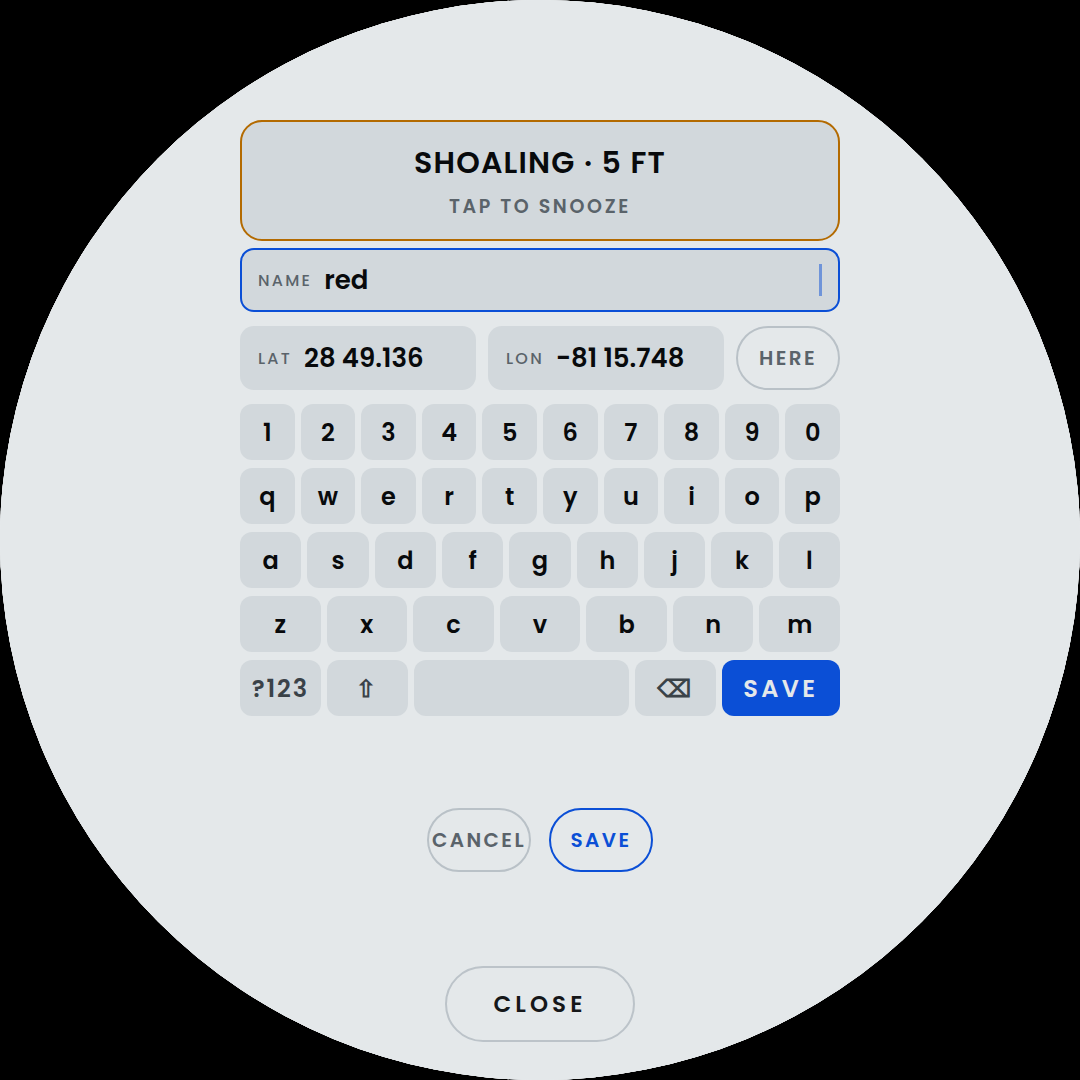
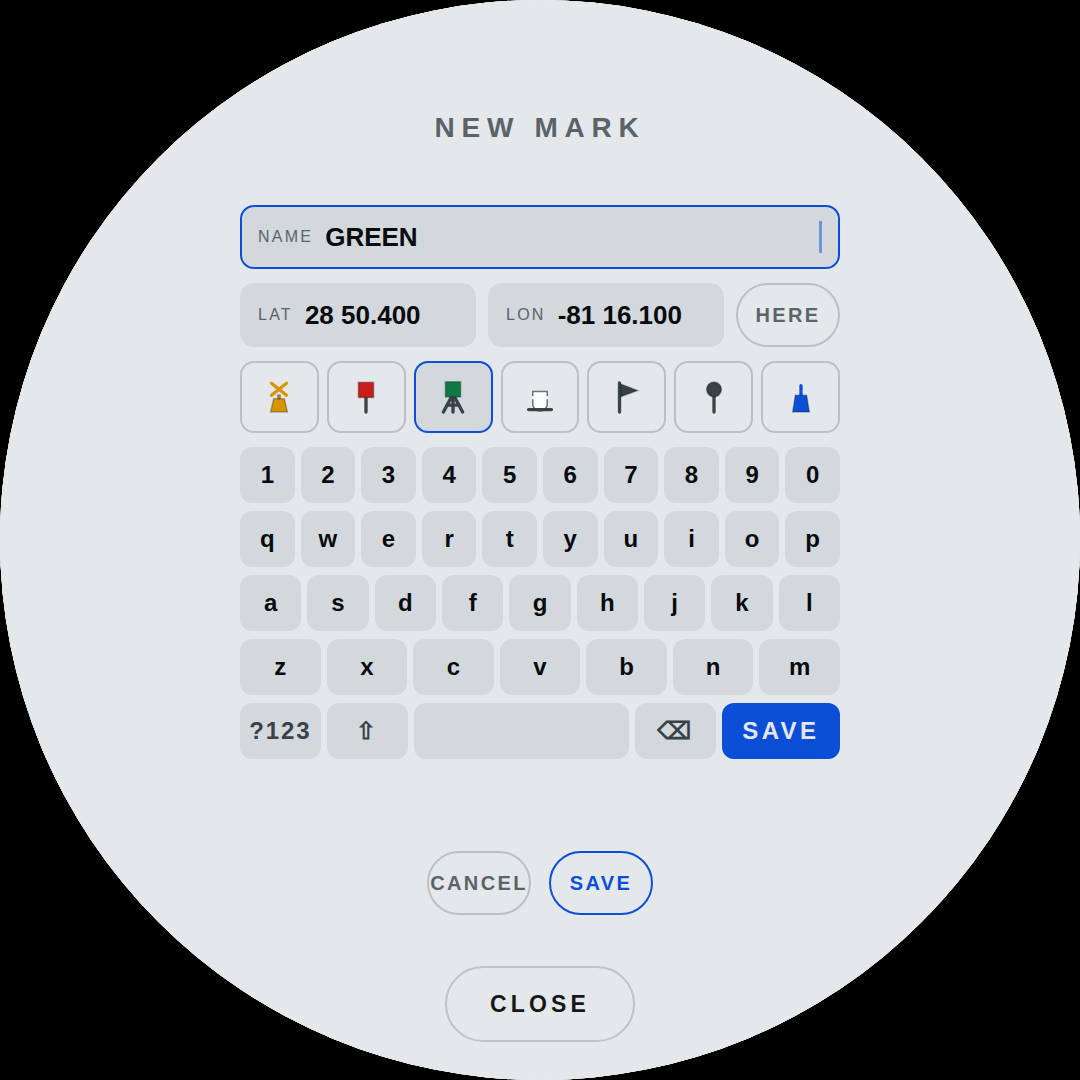
The channel is beaconed, and a mark of yours can say what it is
The channel here is not buoyed. Each mark is a piling out of the water
with a square board on top, and the green ones are three wooden sticks
leaned together in a teepee with the board across them - two pilings
apart at a glance from a boat, which is the whole reason for drawing
them at all. The red nun was a drawing of something that is not there.
The manatee cans are rounded and sitting on a waterline now, so they are
plainly the floating thing among the standing ones.

And the green tripod belongs to a mark that is not in the club table -
it lives in browser storage on the Pi, and in the club's own course
selection. So the form that makes a mark of your own carries all seven
buoys under the position: tap one, and it is kept with the mark and the
sheet draws it. Correcting one of the club's marks can change its buoy
too, on the same terms as its name - stored only if you changed it, so
the correction stays a correction and the table still says what the
table says.

One thing this does NOT fix: a course posted by the club naming a mark
that only exists on this Pi still cannot be loaded, because the site's
id and the id this boat gave your mark are different strings. It is
counted in MISSING, as it was.

Claude-Session: https://claude.ai/code/session_01BmvizJiQLmvpEFfAxzaKX2

diff --git a/confluence_helm.html b/confluence_helm.html
@@ -63,7 +63,7 @@ body{                                   /* DAY - built to beat sun   */
   --club:#0E7A7A;
   /* The marks as they are on the water. The yellow is knocked down from
      a buoy's own yellow, which on a light panel in sun is a smear. */
-  --buoy-y:#D89400; --buoy-r:#C81E1E; --buoy-w:#FFFFFF;
+  --buoy-y:#D89400; --buoy-r:#C81E1E; --buoy-w:#FFFFFF; --buoy-g:#0E7A43;
   --w-huge:600; --w-val:600; --w-lbl:600;
 }
 body.dusk{
@@ -72,7 +72,7 @@ body.dusk{
   --warn:#FFB020; --alarm:#FF3B30; --panel:#15181B; --chip:#22272B;
   --port-g1:#C81E1E; --port-g2:#FF4D4D; --stbd-g1:#0E7A43; --stbd-g2:#24D17E;
   --club:#19A8A8;                       /* lifted off a dark panel     */
-  --buoy-y:#F5B72E; --buoy-r:#FF4D4D; --buoy-w:#E6EAEE;
+  --buoy-y:#F5B72E; --buoy-r:#FF4D4D; --buoy-w:#E6EAEE; --buoy-g:#24D17E;
   --w-huge:300; --w-val:300; --w-lbl:500;
 }
 body.night{
@@ -89,7 +89,7 @@ body.night{
      a red nun are the same red at 2 a.m.; their SHAPES still differ,
      which is what a buoy is told apart by in the dark anyway. */
   --club:#C8342E;
-  --buoy-y:#C8342E; --buoy-r:#C8342E; --buoy-w:#8A2723;
+  --buoy-y:#C8342E; --buoy-r:#C8342E; --buoy-w:#8A2723; --buoy-g:#C8342E;
   --w-huge:300; --w-val:300; --w-lbl:500;
 }
 
@@ -970,10 +970,14 @@ text{font-variant-numeric:tabular-nums;dominant-baseline:middle}
 .bu{width:34px;height:34px;flex:none}
 .bu .bd{stroke:var(--ink);stroke-opacity:.28;stroke-width:1}
 .bu .ln{fill:none;stroke-width:2.2;stroke-linecap:round}
+/* The pilings a daybeacon is built on are wood, whatever colour the
+   board on top of them is. */
+.bu .st{fill:none;stroke:var(--ink-dim);stroke-width:2.2;stroke-linecap:round}
 /* White on a light panel is nothing without an edge. */
 .bu.w .bd{stroke-opacity:.55}
 .bu.y .bd{fill:var(--buoy-y)} .bu.y .ln{stroke:var(--buoy-y)}
 .bu.r .bd{fill:var(--buoy-r)} .bu.r .ln{stroke:var(--buoy-r)}
+.bu.g .bd{fill:var(--buoy-g)} .bu.g .ln{stroke:var(--buoy-g)}
 .bu.w .bd{fill:var(--buoy-w)} .bu.w .ln{stroke:var(--buoy-w)}
 .bu.f .bd,.bu.b .bd{fill:var(--ink-dim)} .bu.f .ln,.bu.b .ln{stroke:var(--ink-dim)}
 .bu.o .bd{fill:var(--accent)} .bu.o .ln{stroke:var(--accent)}
@@ -1115,6 +1119,14 @@ text{font-variant-numeric:tabular-nums;dominant-baseline:middle}
 .mk-val{font-size:26px;font-weight:600;color:var(--ink);white-space:nowrap;overflow:hidden;flex:1}
 .mk-field .pw-cur{display:none;height:32px}.mk-field.on .pw-cur{display:block}
 .mk-row .cbtn{height:64px;padding:0 22px}
+/* Which buoy the mark is, for the sheet to draw. Seven of them across
+   the form: the club's own marks are already drawn from the table, and
+   this is how one of yours says what it looks like. */
+.mk-buoys{display:flex;gap:8px;width:100%}
+.mkb{flex:1;min-width:0;height:72px;border-radius:14px;border:2px solid var(--hairline);
+  background:none;display:flex;align-items:center;justify-content:center}
+.mkb.on{border-color:var(--accent);background:var(--chip)}
+.mkb .bu{width:36px;height:36px}
 .kb.small .kk{height:56px;font-size:24px}
 /* which side to leave a mark, and which start procedure: the same pair
    of buttons in two shapes. P red, S green, the way the lights are. */
@@ -2469,6 +2481,9 @@ document.body.className = THEME_EFF==='day' ? '' : THEME_EFF;
         <div class="mk-field" data-f="lon"><span class="mk-lbl">LON</span><span class="mk-val" id="mk-lon"></span><span class="pw-cur"></span></div>
         <button class="cbtn" id="mk-here">HERE</button>
       </div>
+      <!-- Which buoy it is. A mark you made on the water is a thing you
+           are looking at; the sheet can draw it if it is told which. -->
+      <div class="mk-buoys" id="mk-buoy"></div>
       <div class="kb small" id="mk-kb"></div>
       <div class="ns-msg" id="mk-msg"></div>
       <div class="course-bar">
@@ -3402,6 +3417,7 @@ Object.keys(MARK_MOVES).forEach(id=>{
   if(!m || !v || !isFinite(v.lat) || !isFinite(v.lon)) return;
   m.lat=v.lat; m.lon=v.lon;
   if(v.name){ m.name=v.name; m.hdr=v.name.slice(0,8).trim(); }
+  if(v.buoy) m.buoy=v.buoy;
 });
 /* Back to the book. The compiled values are not kept anywhere to restore
    FROM, so this reloads - which is honest about what it is doing and
@@ -8657,11 +8673,22 @@ const BUOY={
   y:'<path class="ln" d="M7 2.8l10 8M17 2.8l-10 8"/>'
    +'<path class="bd" d="M11.1 10.6h1.8v2.6h-1.8z"/>'
    +'<path class="bd" d="M8.4 13.2h7.2L17.6 22H6.4z"/>',
-  /* A red nun, the cone the even-numbered side of a channel is. */
-  r:'<path class="bd" d="M12 2.6L18.2 22H5.8z"/>',
-  /* A regulatory can - the white ones round the manatee zone. */
-  w:'<path class="bd" d="M7 9.5h10V22H7z"/>'
-   +'<path class="ln" d="M7 14.5h10"/>',
+  /* The channel here is not buoyed, it is BEACONED: a piling out of the
+     water with a board on top. Red is the one on a single stick. */
+  r:'<path class="st" d="M12 8v14"/>'
+   +'<path class="bd" d="M6.9 2.2h10.2v10.2H6.9z"/>',
+  /* And green is three of them, leaned together in a teepee with the
+     board across the top. Two pilings apart at a glance from a boat,
+     which is the whole reason for drawing them at all. */
+  g:'<path class="st" d="M5.6 22l5.6-10.4M18.4 22l-5.6-10.4M12 22v-10.4"/>'
+   +'<path class="st" d="M8.1 17.4h7.8"/>'
+   +'<path class="bd" d="M6.9 1.8h10.2v10.2H6.9z"/>',
+  /* A regulatory can, floating: the white ones round the manatee zone.
+     Rounded and sitting on a waterline, so it is plainly not another
+     board on a stick. */
+  w:'<path class="bd" d="M7.2 8.4h9.6v8.2a4.8 4.8 0 0 1-9.6 0z"/>'
+   +'<path class="ln" d="M7.2 12.4h9.6"/>'
+   +'<path class="st" d="M4.4 20.4h15.2"/>',
   /* The Romance flag, on its staff. */
   f:'<path class="ln" d="M7 2.6V22"/>'
    +'<path class="bd" d="M7.9 3.4L19.2 7.6 7.9 11.8z"/>',
@@ -9225,6 +9252,7 @@ function mkOpen(id){
   const m=id?markOf(id):null;
   MK={f:'name', id:m?m.id:null,
       name:m?m.name:'', lat:m?fmtDM(m.lat):'', lon:m?fmtDM(m.lon):'',
+      buoy:(m&&m.buoy)||'o',
       kb:{shift:false,sym:false,num:false}};
   cvpClose(); crsTitle(!m ? 'New mark' : isUserMark(m.id) ? 'Edit mark' : 'Correct mark');
   $('course-main').style.display='none'; $('course-add').style.display='';
@@ -9236,6 +9264,9 @@ function mkClose(){ MK=null; $('course-add').style.display='none';
 function mkPaint(){
   if(!MK) return;
   $('mk-name').textContent=MK.name; $('mk-lat').textContent=MK.lat; $('mk-lon').textContent=MK.lon;
+  $('mk-buoy').innerHTML=Object.keys(BUOY).map(k=>
+    '<button class="mkb'+(MK.buoy===k?' on':'')+'" data-b="'+k+'">'
+    +'<svg class="bu '+k+'" viewBox="0 0 24 24">'+BUOY[k]+'</svg></button>').join('');
   document.querySelectorAll('#course-add .mk-field').forEach(f=>f.classList.toggle('on',f.dataset.f===MK.f));
   MK.kb.num = MK.f!=='name';
   /* The keyboard is 45 buttons; rebuilt on every keystroke it is the
@@ -9271,6 +9302,7 @@ function mkSave(){
   if(MK.id){
     const m=USER_MARKS.find(x=>x.id===MK.id);
     if(m){ m.name=name; m.hdr=name.slice(0,8).trim(); m.lat=lat; m.lon=lon;
+           m.buoy=MK.buoy;
            marksSave(); mkClose(); drawMap(shownTrack()); return; }
     /* One of the club's. The compiled coordinate is left alone and an
        override written over it - see MARK_MOVES. The name is stored only
@@ -9280,14 +9312,20 @@ function mkSave(){
     if(c){
       const v={lat:lat, lon:lon};
       if(name && name!==c.name) v.name=name;
+      /* And which buoy it is, on the same terms as the name: stored
+         only when you changed it, so a correction stays a correction
+         and the table still says what the table says. The club can
+         re-lay a mark as a different thing. */
+      if(MK.buoy!==(c.buoy||'o')) v.buoy=MK.buoy;
       MARK_MOVES[MK.id]=v; markMovesSave();
       c.lat=lat; c.lon=lon;
       if(v.name){ c.name=v.name; c.hdr=v.name.slice(0,8).trim(); }
+      if(v.buoy) c.buoy=v.buoy;
       mkClose(); drawMap(shownTrack()); return;
     }
   }
   const id='u'+Date.now().toString(36);
-  const m={id, name, hdr:name.slice(0,8).trim(), lat, lon};
+  const m={id, name, hdr:name.slice(0,8).trim(), buoy:MK.buoy, lat, lon};
   USER_MARKS.push(m); marksSave(); MARKS.push(m);
   COURSE.marks.push(id); courseSave();
   mkClose(); drawMap(shownTrack());
@@ -9303,6 +9341,8 @@ function markDelete(id){
 }
 $('course-add').addEventListener('click',e=>{
   if(!MK) return;
+  const bu=e.target.closest('.mkb');
+  if(bu){ MK.buoy=bu.dataset.b; mkPaint(); return; }
   const f=e.target.closest('.mk-field'); if(f){ MK.f=f.dataset.f; mkPaint(); return; }
   const b=e.target.closest('#mk-kb button'); if(!b) return;
   const c=b.dataset.c, a=b.dataset.a;

diff --git a/docs/readings.md b/docs/readings.md
@@ -483,10 +483,20 @@ is how it is found:
 | | |
 |---|---|
 | **yellow special, X topmark** | `RUM`, `GOSLING` — the club's own inflatables. Marks of the *course*, which is what the X says |
-| **red nun** | `CB 2`, `CB 8`, `CB 10`, `CB 12` — the channel |
-| **white can** | `MAN 1`, `MAN 2` — the manatee zone's regulatory marks |
+| **red board on a piling** | `CB 2`, `CB 8`, `CB 10`, `CB 12`. The channel here is not buoyed, it is **beaconed**: a stick out of the water with a square board on top |
+| **green board on a tripod** | the green ones, which are three wooden sticks leaned together in a teepee with the board across the top. Two pilings apart at a glance, which is the whole reason for drawing them |
+| **white can** | `MAN 1`, `MAN 2` — the manatee zone's regulatory marks, floating, on a waterline |
 | **flag** and **ball** | `FLAG` and `BALL`: the Romance flag and its sail ball, which are the two ends of the line |
-| **the accent** | a mark of your own — there is no club drawing to copy |
+| **a plain pillar in the accent** | a mark of your own that has not said what it is |
+
+**A mark of your own can say which buoy it is.** The form carries all
+seven, under the position: tap one and it is kept with the mark, in
+browser storage with everything else about it, and the sheet draws it.
+That is how the green tripod gets drawn — it is a mark of yours, not one
+of the club's ten. Correcting one of the club's marks can change its
+buoy too, on the same terms as its name: stored only if you changed it,
+so the correction stays a correction and the table still says what the
+table says.
 
 On the **night** theme every one of them is the same red, as everything
 there is; the shapes still tell them apart, which is what tells them
@@ -596,8 +606,8 @@ tap on this sheet that can replace a course you are already sailing.
 ![Adding a mark of your own](img/course-form.png)
 
 **Marks of your own.** `+ MARK` on the sheet's bar opens a form: a name,
-and a position typed on the app's own keyboard or taken from the GPS
-with `HERE`. Positions read as the sailing instructions write them,
+a position typed on the app's own keyboard or taken from the GPS with
+`HERE`, and which of the seven buoys it is. Positions read as the sailing instructions write them,
 degrees and decimal minutes with a space between, or as decimal
 degrees, with the hemisphere as a letter at either end or as a minus
 for west and south — `28 49.03 N` and `081 16.17 W` go in as the chart
